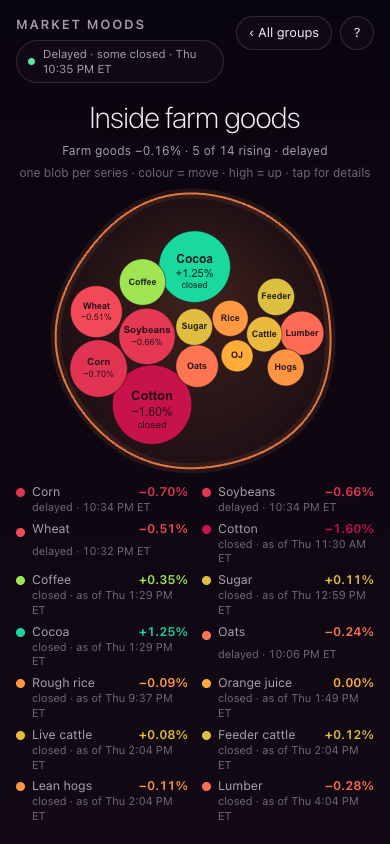
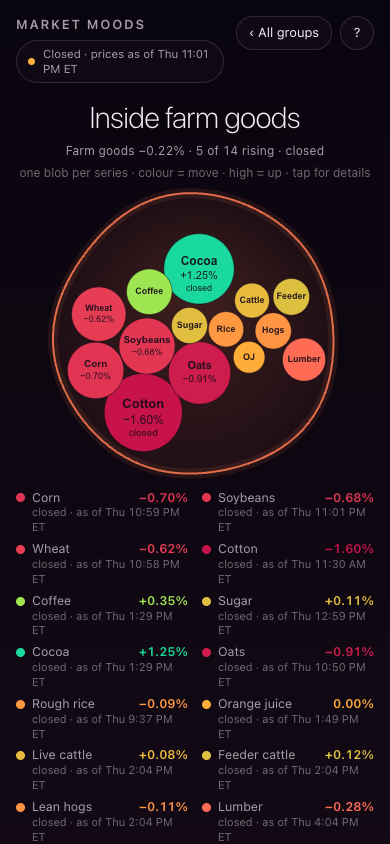
Panel r2 (design 6): phone economy labels under their own blobs, ~42px blobs, STOCKS/ECONOMY captions on wide screens, whole-word blob labels, note stays whole
- index.html: phone labels sit right under each economy blob, wrap inside their 1/8 lane, no edge gutter and no push-below pass for them (the gutter shoved the two outer labels into their neighbours and the pass cascaded the row down by a frame-dependent amount: DOM probe at 2.5/8/16 s now agrees within 3px). Min economy radius 0.025 on phones. Wide + two rows: STOCKS above the top row (never into the mood block), ECONOMY between the rows. Caption glide 0.25/frame.
- economy.html: inside-view labels prefer a whole first word ("Rail", "USD", "FX"); footer scrolls within 42dvh on phones with the "not shown" note whole (no clamp).
- fetch.py: comments sit over the blocks they describe.
- ponytail: no rung pins phone label-to-blob distance (blob centres are not in the DOM); the probe is in HANDOFF. check.js 868 · economy-check 448/0.

diff --git a/index.html b/index.html
@@ -71,6 +71,7 @@
   .fam span { position: absolute; transform: translate(-50%, 0); font-size: 10px; letter-spacing: .16em; text-transform: uppercase; color: var(--ink-2); opacity: .85; white-space: nowrap;
     padding-bottom: 4px; border-bottom: 1px solid rgba(255, 255, 255, .14); }
   .fam.stacked { display: none; }   /* phone: the two rows split stocks (top) from the economy (bottom); a caption there hit the index labels */
+  @media (max-width: 480px) { .tags span.econ { white-space: normal; max-width: 11vw; font-size: 8.5px; letter-spacing: 0; line-height: 1.15; text-align: center; } }   /* fits its 1/8 lane: no label leans on a neighbour, so none is pushed down */   /* "CENTRAL BANKS" wraps inside its lane, never into a neighbour */
   body.incell .fam { display: none; }
   .cellcap { position: absolute; left: 0; right: 0; top: 11%; text-align: center; pointer-events: none; display: none; }
   body.incell .cellcap { display: block; }
@@ -683,7 +684,7 @@
     const band = travel(baseR * 1.4 * 1.25);   // biggest blob (size 1.4) with its droplets bunched: body edge at (Σr⁴)^¼ ≈ 1.23 R
     const span = band[1] - band[0];
     const bandI = stacked ? [band[0] + span * 0.55, band[1]] : band, bandE = stacked ? [band[0], band[0] + span * 0.22] : band;
-    fam.stacked = stacked; fam.iX = 2 * laneW / aspect; fam.eX = (x0E + econ.length * wE / 2) / aspect;
+    fam.stacked = stacked && aspect < 0.8; fam.iX = 2 * laneW / aspect; fam.eX = (x0E + econ.length * wE / 2) / aspect;
     const top = [0, 0];   // each family's highest wax this frame: its caption rides just above it
     let n = 0;
     lanes.concat(econ).forEach((L, i) => {
@@ -699,7 +700,7 @@
         const brk = Math.min(1, Math.max(0.05, (L.sp - 0.6) / 1.0));
         const drift = core ? 0 : 0.7 + 1.6 * brk * Math.max(0, Math.sin((L.ph - i * 10) * 0.17 + d.px * 1.7));   // break-away clock shared: equal chop, equal spread
         if (isE && stacked && !core) { balls[n * 3 + 2] = 0; n++; return; }   // phone: a small economy blob stays one clean drop
-        const R = isE ? Math.min(baseR * L.sz * (stacked ? 0.75 : EW), w * (stacked ? 0.36 : 0.3)) : baseR * L.sz;   // an economy blob never outgrows its narrow lane; offsets scale with the blob
+        const R = isE ? Math.max(stacked && aspect < 0.8 ? 0.025 : 0, Math.min(baseR * L.sz * (stacked ? 0.75 : EW), w * (stacked ? 0.36 : 0.3))) : baseR * L.sz;   // phone: never under ~42px, a thumb's target   // an economy blob never outgrows its narrow lane; offsets scale with the blob
         const r = R * d.rr, room = Math.max(0, w * 0.5 - r);   // wax stays in its own lane and band
         const x = cx + clampN(Math.sin(L.ph * d.wx * 2 + d.px) * (core ? w * 0.06 : R * 0.45 * d.ax * drift) * amp, -room, room);
         const y = clampN(cy + Math.sin(L.ph * d.wy * 2 + d.py) * (core ? 0.02 : R * 1.6 * d.ay * drift) * amp, bd[0], bd[1]);
@@ -709,13 +710,14 @@
         cols[n * 3] = L.col[0]; cols[n * 3 + 1] = L.col[1]; cols[n * 3 + 2] = L.col[2];
         n++;
       });
-      L.tagX = cx / aspect; L.tagY = isE && stacked ? bandE[0] - Math.min(wE * 0.36, baseR * 1.4 * 0.75) - 0.022 : low - 0.035;   // 0.022: the label hugs the row (panel: "labels closer to blobs")   // under the blob; a phone's economy row shares one baseline
+      L.tagX = cx / aspect; L.tagY = isE && stacked && aspect < 0.8 ? low - 0.02 : isE && stacked ? bandE[0] - Math.min(wE * 0.36, baseR * 1.4 * 0.75) - 0.022 : low - 0.035;   // phone: each label right under ITS blob (wrapped inside the lane); wide: the row shares one baseline
       top[isE ? 1 : 0] = Math.max(top[isE ? 1 : 0], L.hy + (L.hitR || 0) / 1.5);
     });
     // captions glide with small bobs and snap on a first sight or a big change (data just arrived)
-    const glide = (cur, want) => cur == null || Math.abs(want - cur) > 0.08 ? want : cur + (want - cur) * 0.08;
+    const glide = (cur, want) => cur == null || !isFinite(cur) || Math.abs(want - cur) > 0.04 ? want : cur + (want - cur) * 0.25;   // a caption trails its blob by a few frames, never by a screen
     const capY = Math.max(top[0], econ.length ? top[1] : 0) + 0.04;   // both captions on one line, over the tallest wax of either family
-    fam.iY = glide(fam.iY, capY); fam.eY = fam.iY;
+    fam.iY = glide(fam.iY, Math.min(capY, free[1] - 0.006));   // never into the mood block above the stage
+    fam.eY = stacked && !fam.stacked ? glide(fam.eY, bandE[1] + Math.min(wE * 0.36, baseR * 1.4 * 0.75) * 1.25 + 0.03) : fam.iY;   // wide + two rows: ECONOMY rides over its own row (the divider a reader looks for)
     for (; n < N; n++) balls[n * 3 + 2] = 0;   // unused slots: radius 0 adds nothing to the field
     const heat = Mood.colour(avgPctShown);
     gl.uniform2f(uRes, W, H);
@@ -762,11 +764,12 @@
     const all = lanes.concat(econ), els = [...tags.children], W_ = innerWidth, H_ = innerHeight;
     const boxes = all.map((L, i) => { const s = els[i]; if (!s || L.tagX == null) return null;
       const w = s.offsetWidth, h = s.offsetHeight || 14, half = w / 2 / W_;
-      const g = 24 / W_, x = clampN(L.tagX, half + g, 1 - half - g) * W_;   // a 24px gutter at both edges
+      const laneE = i >= 4 && fam.stacked;   // phone: an economy label is already confined to its 1/8 lane (max-width); no gutter shove, no push below a neighbour
+      const g = laneE ? 0 : 24 / W_, x = clampN(L.tagX, half + g, 1 - half - g) * W_;   // a 24px gutter at both edges
       return { s, l: x - w / 2, r: x + w / 2, h, b: Math.max(0, L.tagY) * H_, x }; });
     const placed = [];
     boxes.forEach((B, i) => { if (!B) return;
-      if (i >= 4) for (let guard = 0; guard < 8; guard++) {
+      if (i >= 4 && !fam.stacked) for (let guard = 0; guard < 8; guard++) {
         const hit = placed.find(P => B.l < P.r + 4 && B.r > P.l - 4 && B.b < P.b + P.h + 2 && B.b + B.h > P.b - 2);
         if (!hit) break; B.b = Math.max(0, hit.b - B.h - 2);
         if (B.b === 0) break;

diff --git a/economy.html b/economy.html
@@ -78,9 +78,7 @@
   @media (max-width: 699px) {
     /* a phone inside a 16-member group: the footer (note + members) must not eat the stage, so it scrolls within
        its lower half and the "not shown" note clamps to three lines (tap it for the rest) */
-    body.incell footer { max-height: 46vh; max-height: 46dvh; overflow-y: auto; }
-    body.incell .notice { display: -webkit-box; -webkit-line-clamp: 3; -webkit-box-orient: vertical; overflow: hidden; cursor: pointer; }
-    body.incell .notice.full { -webkit-line-clamp: unset; display: block; }
+    body.incell footer { max-height: 42vh; max-height: 42dvh; overflow-y: auto; }   /* the note stays whole; the footer scrolls */
     .panel { top: auto; left: 0; width: auto; max-height: 60vh; max-height: 60dvh; border-left: 0; border-top: 1px solid var(--line);
       border-radius: 18px 18px 0 0; box-shadow: 0 -10px 40px rgba(0, 0, 0, .45); transform: translateY(100%); }
     .panel.open { transform: none; }
@@ -518,7 +516,9 @@
     ctx.fillStyle = "rgba(20,11,24,.9)"; ctx.textAlign = "center"; ctx.textBaseline = "middle";
     for (const N of list) if (N.r >= 12 && N.r < 24) {   // too small for name + move: the name alone, so no blob is left blank
       ctx.font = `600 9px ui-sans-serif, -apple-system, sans-serif`;
-      let t = N.m.short || N.m.name; while (t.length > 3 && ctx.measureText(t).width > N.r * 1.9) t = t.slice(0, -1);
+      let t = N.m.short || N.m.name, first = t.split(" ")[0];   // "Rail cars" -> "Rail", "USD share" -> "USD": a whole word before a clipped one
+      if (ctx.measureText(t).width > N.r * 1.9 && ctx.measureText(first).width <= N.r * 1.9) t = first;
+      while (t.length > 3 && ctx.measureText(t).width > N.r * 1.9) t = t.slice(0, -1);
       ctx.fillText(t, N.dx, N.dy);
     }
     for (const N of list) if (N.r >= 24) {
@@ -561,7 +561,7 @@
     const miss = ((data && data.missing) || []).filter(x => x.group === g.key);
     const nt = $("notice");
     nt.textContent = miss.length ? "Not shown: " + miss.map(x => `${x.name} (${x.why})`).join("; ") + "." : "";
-    nt.classList.toggle("on", !!miss.length); nt.classList.remove("full"); nt.onclick = () => nt.classList.toggle("full");
+    nt.classList.toggle("on", !!miss.length);
   }
   function openCell(key) {
     if (!G.some(g => g.key === key)) return false;

diff --git a/fetch.py b/fetch.py
@@ -413,13 +413,14 @@ ECON = [
 ]
 # a feed's raw unit divided into the unit the page names (FRED: WALCL/ECBASSETSW in millions, JPNASSETS in 100 millions)
 ECON_SCALE = {"fedAssets": 1e6, "ecbAssets": 1e6, "bojAssets": 1e4}
-# things Clark asked for that no free keyless source carries: listed on the page, never faked
+# a blob's label per series (the full name rides in the tooltip)
 ECON_SHORT = {"mortgage": "Mortgage", "cpi": "CPI", "unemp": "Unemp.", "payrolls": "Payrolls", "claims": "Claims",
               "sentiment": "Sentiment", "retail": "Retail", "spending": "Spending", "homes": "Homes", "dollar": "Dollar", "t3m": "3-month", "t5y": "5-year",
               "t10y": "10-year", "t30y": "30-year", "natgas": "Nat. gas", "heatoil": "Heating oil", "steel": "Steel",
               "aluminium": "Aluminium", "brent": "Brent", "wti": "WTI", "credit": "Credit", "cards": "Cards", "fedDebt": "Fed. debt",
               "m1": "M1", "railCars": "Rail cars", "railBox": "Intermodal", "tsi": "Freight idx", "truckTons": "Tonnage", "imports": "Import prices", "exports": "Export prices", "tradeCH": "China trade", "tradeCA": "Canada trade", "tradeMX": "Mexico trade", "tradeJP": "Japan trade", "tradeKR": "Korea trade", "tradeUK": "UK trade", "tradeGE": "Germany trade", "tradeFR": "France trade", "goldUSA": "US gold", "goldDEU": "German gold", "goldITA": "Italian gold", "goldFRA": "French gold", "goldCHN": "China gold", "goldIND": "India gold", "goldPOL": "Polish gold", "goldTUR": "Turkish gold", "boeAssets": "BoE", "pbocAssets": "PBoC", "snbAssets": "SNB", "fxReserves": "FX reserves", "usdShare": "USD share",  "fedAssets": "Fed", "ecbAssets": "ECB", "bojAssets": "BoJ", "worldDebt": "World debt", "trade": "Trade", "cassShip": "Shipments", "cassSpend": "Freight $",
               "trucking": "Trucking", "feeder": "Feeder", "oj": "OJ", "cattle": "Cattle", "rice": "Rice", "hogs": "Hogs"}     # a blob's label; the full name rides in the tooltip
+# things Clark asked for that no free keyless source carries: listed on the page, never faked
 ECON_MISSING = [("metals", "Cobalt", "no free public price series (LME and Fastmarkets are paid; FRED has none)"),
                 ("energy", "Propane", "Yahoo lists Mont Belvieu propane (B0=F) but it printed once in 5 days: too thin for a move"),
                 ("energy", "Ethanol", "Yahoo's ethanol future (EH=F) returns no prices; no other free keyless feed"),
